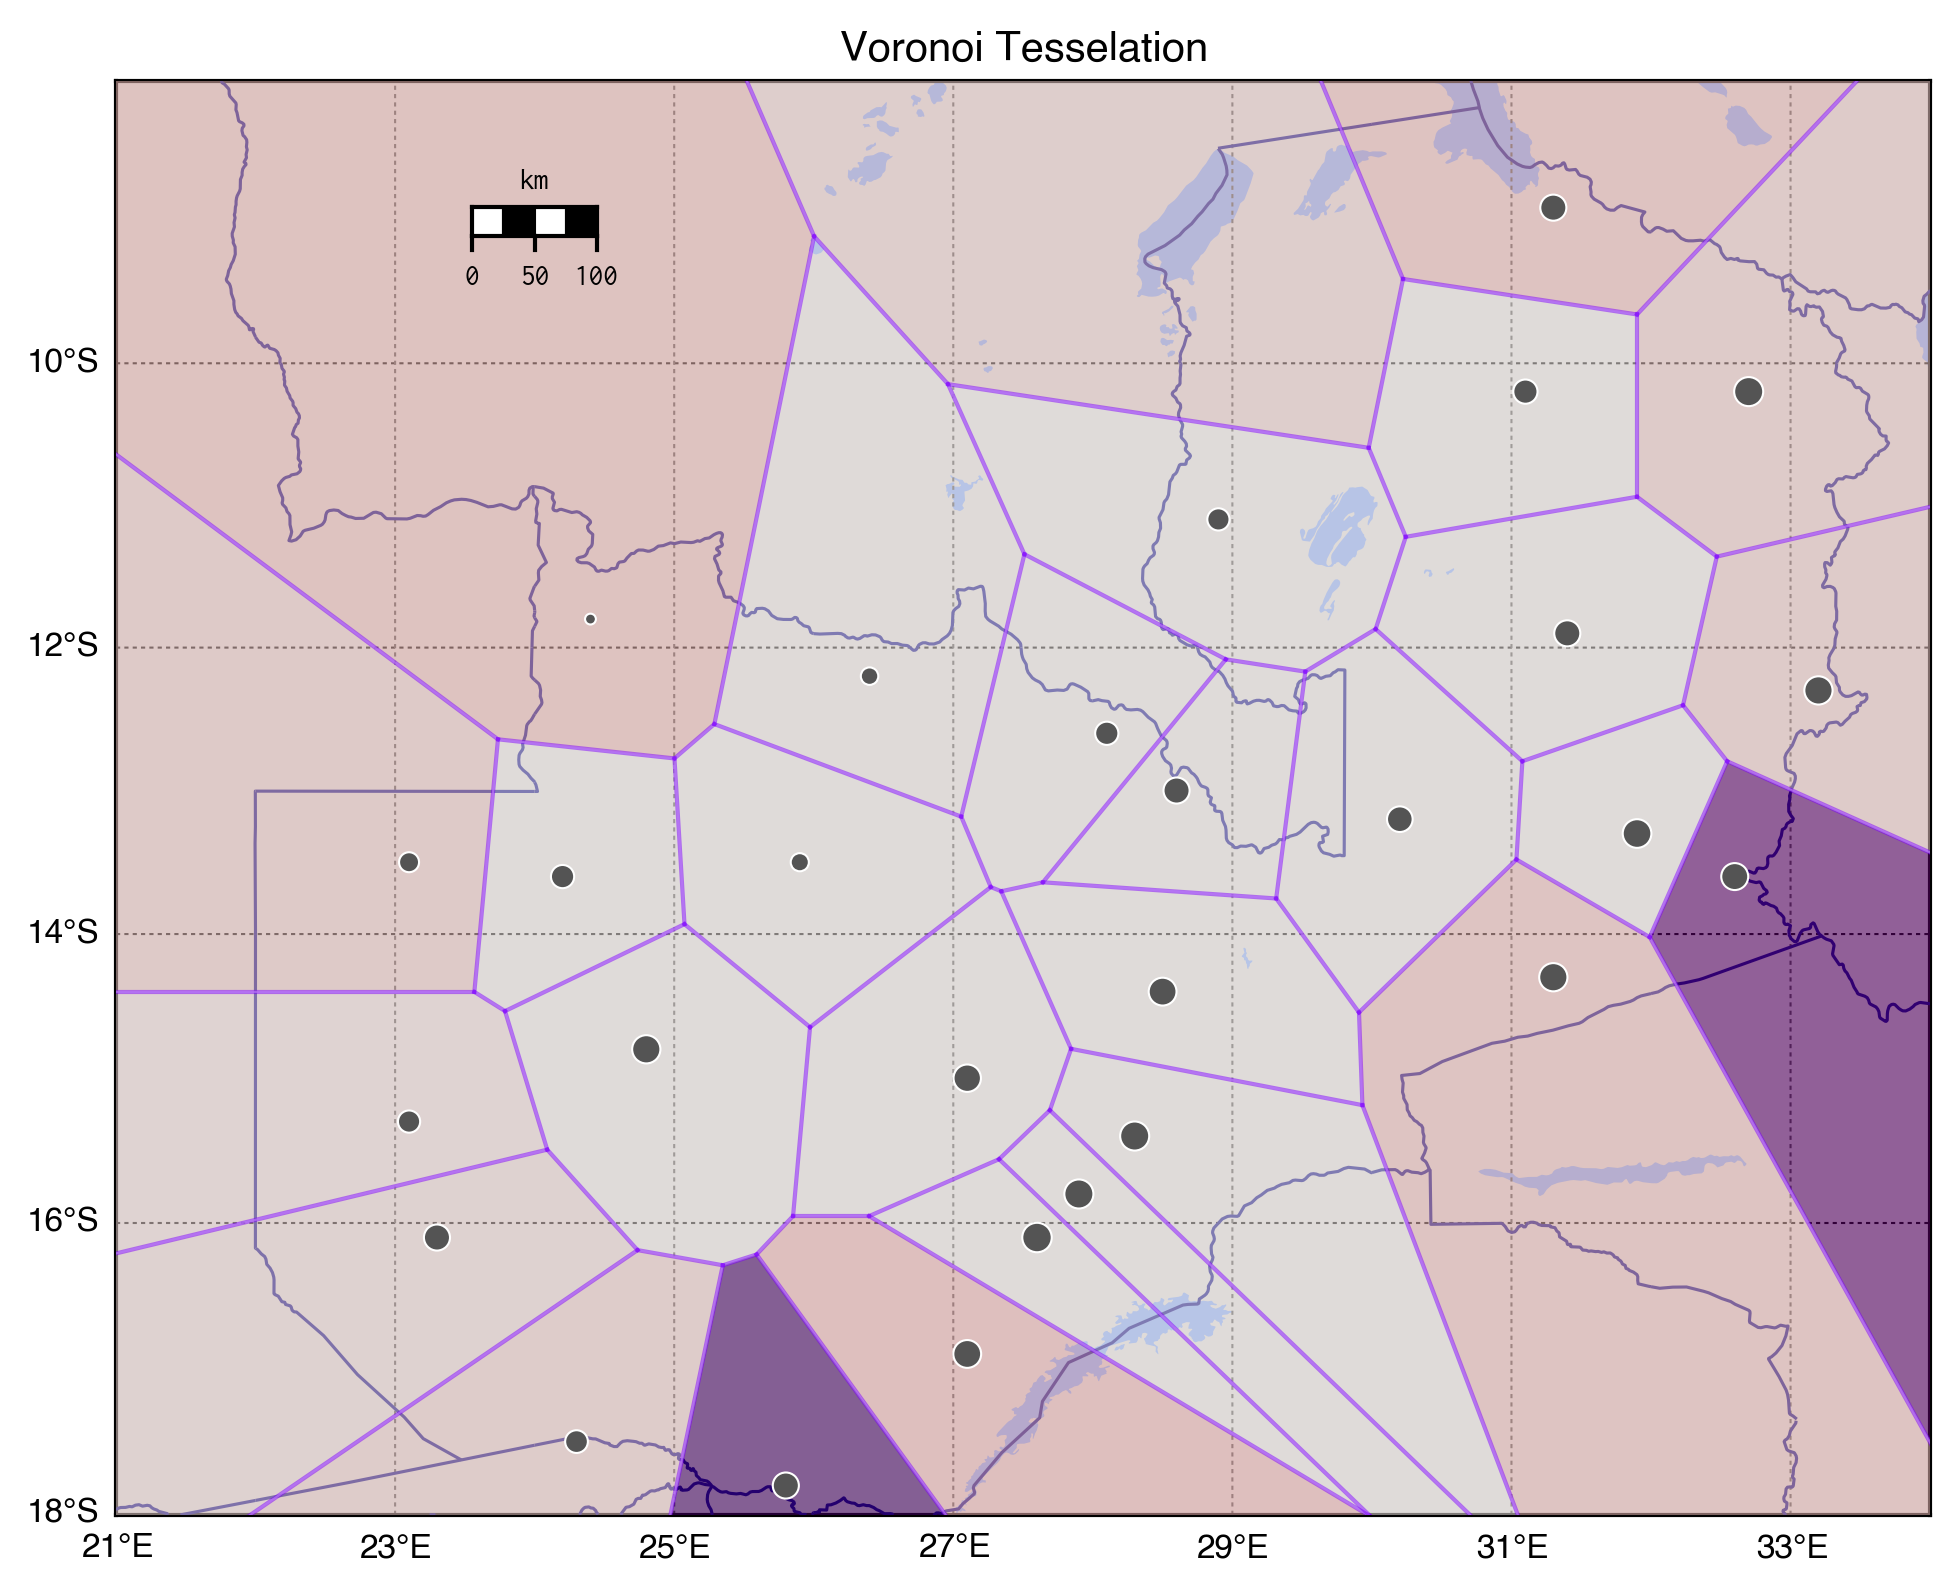
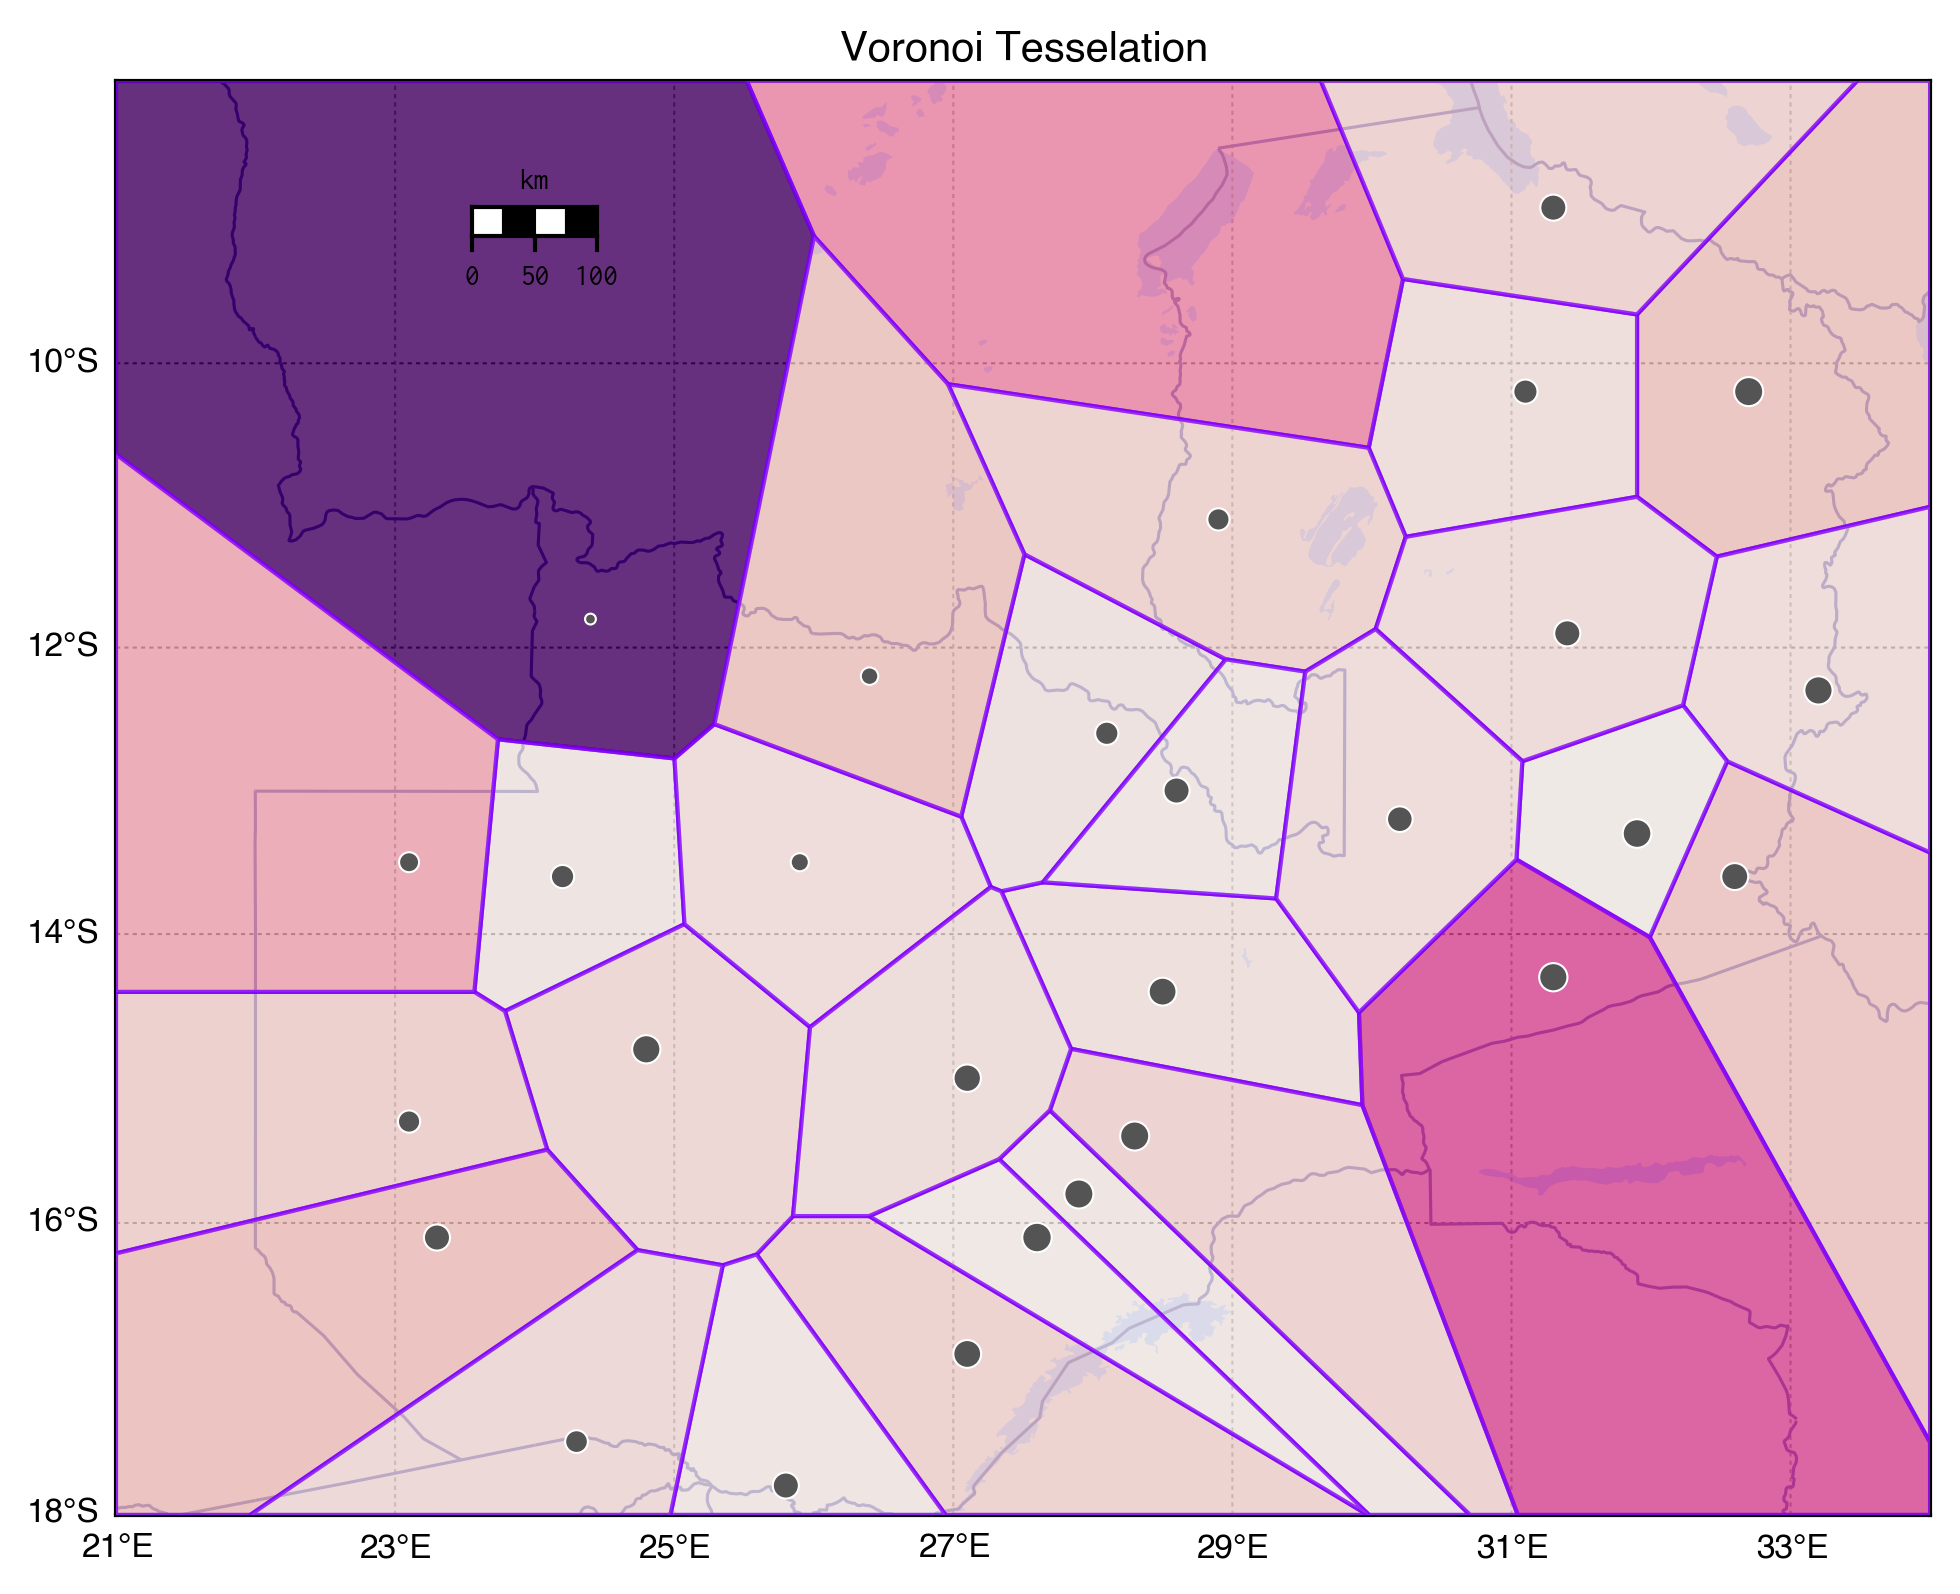
Showing clipped Voronoi cells

diff --git a/README.md b/README.md
@@ -21,7 +21,7 @@ Unless otherwise specified, all other files are provided under the [MIT License]
 [Convert_Folium](http://nbviewer.ipython.org/github/urschrei/Geopython/blob/master/convert_folium.ipynb): demonstrates the use of the [Folium](https://github.com/wrobstory/folium) library for creating web-based maps from Python data (pandas) using [Leaflet](http://leafletjs.com) to generate a choropleth map
 
 [Contour](http://nbviewer.ipython.org/github/urschrei/Geopython/blob/master/contour.ipynb): demonstrates interpolation of irregularly-spaced point data (mean rainfall) into a regular grid, calculating a contour plot, and imposing it onto a basemap (see graphic above). I then compare two approaches for generating surfaces – Delaunay Natural Neighbour (`matplotlib.griddata`), and refinement of a coarse Delaunay mesh using `matplotlib.UniformTriRefiner`, which uses recursive subdivision and cubic interpolation. High-res images are available in the [data](data) folder, all beginning with `rainfall_`. :umbrella::umbrella::umbrella:  
-Finally, the map is partitioned into Voronoi cells based on the sensor locations, and some plotting methods (more flexible than `scipy.spatial.voronoi2d`) are shown.  
+Finally, the map is partitioned into *clipped* Voronoi cells based on the sensor locations, and some plotting methods (more flexible than `scipy.spatial.voronoi2d`) are shown.  
 
 ![voronoi](data/voronoi_gh.png "Cellular")
 
